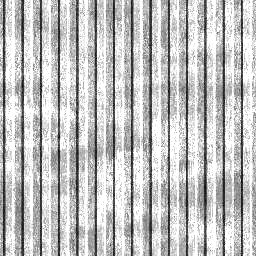
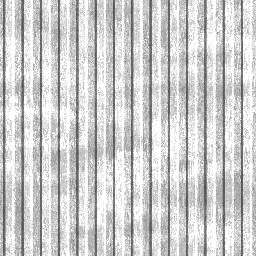
Riviera Cop: arregla carretera invisible, contorno sin rayas falsas, texturas más suaves y más luz
Claude-Session: https://claude.ai/code/session_01EiJVeC92gFACi6UZ5uAPQs

diff --git a/rivieracop/js/toon.js b/rivieracop/js/toon.js
@@ -4,7 +4,7 @@ import * as THREE from 'three';
 let GRAD = null;
 export function toonGrad() {
   if (!GRAD) {
-    const d = new Uint8Array([105, 105, 105, 255, 185, 185, 185, 255, 255, 255, 255, 255]);
+    const d = new Uint8Array([150, 150, 150, 255, 210, 210, 210, 255, 255, 255, 255, 255]);
     GRAD = new THREE.DataTexture(d, 3, 1, THREE.RGBAFormat);
     GRAD.minFilter = GRAD.magFilter = THREE.NearestFilter;
     GRAD.generateMipmaps = false;
@@ -21,7 +21,7 @@ const LOADER = new THREE.TextureLoader();
 const TEX = {};
 export function tex(name) {
   if (!TEX[name]) {
-    const t = LOADER.load('tex/' + name + '.jpg');
+    const t = LOADER.load('tex/' + name + '.jpg?v=3');
     t.wrapS = t.wrapT = THREE.RepeatWrapping;
     t.colorSpace = THREE.SRGBColorSpace;
     t.anisotropy = 4;
@@ -53,13 +53,15 @@ export class Outline {
         void main(){
           vec3 c = texture2D(tColor, vUv).rgb;
           vec2 px = 1.0 / res;
+          // 1/z es lineal en pantalla sobre una superficie plana: su segunda derivada solo salta en los bordes reales
           float d = lin(texture2D(tDepth, vUv).r);
-          float dl = lin(texture2D(tDepth, vUv + vec2(-px.x, 0.0)).r);
-          float dr = lin(texture2D(tDepth, vUv + vec2(px.x, 0.0)).r);
-          float du = lin(texture2D(tDepth, vUv + vec2(0.0, px.y)).r);
-          float dd = lin(texture2D(tDepth, vUv + vec2(0.0, -px.y)).r);
-          float e = max(max(abs(dl - d), abs(dr - d)), max(abs(du - d), abs(dd - d))) / d;
-          float edge = smoothstep(0.035, 0.09, e) * (1.0 - smoothstep(110.0, 190.0, d));
+          float w = 1.0 / d;
+          float wl = 1.0 / lin(texture2D(tDepth, vUv + vec2(-px.x, 0.0)).r);
+          float wr = 1.0 / lin(texture2D(tDepth, vUv + vec2(px.x, 0.0)).r);
+          float wu = 1.0 / lin(texture2D(tDepth, vUv + vec2(0.0, px.y)).r);
+          float wd = 1.0 / lin(texture2D(tDepth, vUv + vec2(0.0, -px.y)).r);
+          float e = (abs(wl + wr - 2.0 * w) + abs(wu + wd - 2.0 * w)) / w;
+          float edge = smoothstep(0.02, 0.06, e) * (1.0 - smoothstep(90.0, 170.0, d));
           gl_FragColor = vec4(mix(c, ink, edge * 0.9), 1.0);
           #include <colorspace_fragment>
         }`,

diff --git a/rivieracop/js/scenery.js b/rivieracop/js/scenery.js
@@ -35,13 +35,13 @@ export function makeMats() {
       t.needsUpdate = true;
     };
     draw(null);
-    if (!night) { const im = new Image(); im.onload = () => draw(im); im.src = 'tex/plaster.jpg'; }
+    if (!night) { const im = new Image(); im.onload = () => draw(im); im.src = 'tex/plaster.jpg?v=3'; }
     t.wrapS = t.wrapT = THREE.RepeatWrapping;
     t.colorSpace = THREE.SRGBColorSpace;
     t.anisotropy = 4;
     return t;
   };
-  const T = (name, o = {}) => toon(Object.assign({ vertexColors: true, map: tex(name) }, o));
+  const T = (name, o = {}) => toon(Object.assign({ vertexColors: true, map: tex(name), side: THREE.DoubleSide }, o));
   return {
     L: toon({ vertexColors: true, side: THREE.DoubleSide }),
     W: toon({ vertexColors: true, map: mk(false) }),
@@ -211,13 +211,13 @@ function facade(R, road, d) {
 }
 
 function tunnelRun(R, road, B, i0, i1) {
-  strip(R.A, road, i0, i1, C(-HALF, 0), C(HALF, 0), 0x9a9aa0, 4);
+  strip(R.A, road, i0, i1, C(-HALF, 0), C(HALF, 0), 0x55575c, 4);
   for (const sd of [-1, 1]) {
     strip(R.L, road, i0, i1, C(sd * (HALF - 0.4), 0.02), C(sd * (HALF - 0.25), 0.02), 0xffffff);
     strip(R.P, road, i0, i1, C(sd * HALF, 0.25), C(sd * 7.2, 0.25), 0xb8b2a6, 2);
     strip(R.L, road, i0, i1, C(sd * HALF, 0), C(sd * HALF, 0.25), 0x77736c);
     strip(R.T, road, i0, i1, C(sd * 7.2, 0.25), C(sd * 7.2, 1.6), 0xf2ead6, 1.4);
-    strip(R.K, road, i0, i1, C(sd * 7.2, 1.6), C(sd * 7.2, 6.3), 0xa8aaae, 4);
+    strip(R.K, road, i0, i1, C(sd * 7.2, 1.6), C(sd * 7.2, 6.3), 0xb8b4aa, 4);
     strip(R.K, road, i0, i1, C(sd * 7.2, 6.3), C(0, 7.4), 0x6a6b70, 4);
   }
   // grafitis en las paredes del túnel
@@ -250,7 +250,7 @@ function dashes(R, road, i0, i1, col) {
 }
 
 function outsideRun(R, road, B, i0, i1, r) {
-  strip(R.A, road, i0, i1, C(-HALF, 0), C(HALF, 0), LIGHT(B.asphalt, 0.45), 4);
+  strip(R.A, road, i0, i1, C(-HALF, 0), C(HALF, 0), LIGHT(B.asphalt, 0.08), 4);
   dashes(R, road, i0, i1, B.line);
   for (const sd of [-1, 1]) {
     strip(R.L, road, i0, i1, C(sd * (HALF - 0.45), 0.02), C(sd * (HALF - 0.3), 0.02), 0xf2f2f2);

diff --git a/rivieracop/js/main.js b/rivieracop/js/main.js
@@ -592,9 +592,9 @@ function tick(dt) {
   ENV.sky.lerp(TC.setHex(B.sky), k);
   ENV.sea.lerp(TC.setHex(B.sea), k);
   ENV.hs.lerp(TC.setHex(B.hemi[0]), k); ENV.hg.lerp(TC.setHex(B.hemi[1]), k);
-  ENV.hi = lerp(ENV.hi, B.hemi[2] * (inTun ? 0.45 : 1), k * 2);
+  ENV.hi = lerp(ENV.hi, B.hemi[2] * (inTun ? 0.75 : 1), k * 2);
   ENV.sc.lerp(TC.setHex(B.sun[0]), k);
-  ENV.si = lerp(ENV.si, B.sun[1] * (inTun ? 0.15 : 1), k * 2);
+  ENV.si = lerp(ENV.si, B.sun[1] * (inTun ? 0.45 : 1), k * 2);
   ENV.fn = lerp(ENV.fn, B.fogNear, k); ENV.ff = lerp(ENV.ff, B.fogFar, k);
   scene.background.copy(ENV.sky); scene.fog.color.copy(ENV.sky);
   scene.fog.near = ENV.fn; scene.fog.far = ENV.ff;
